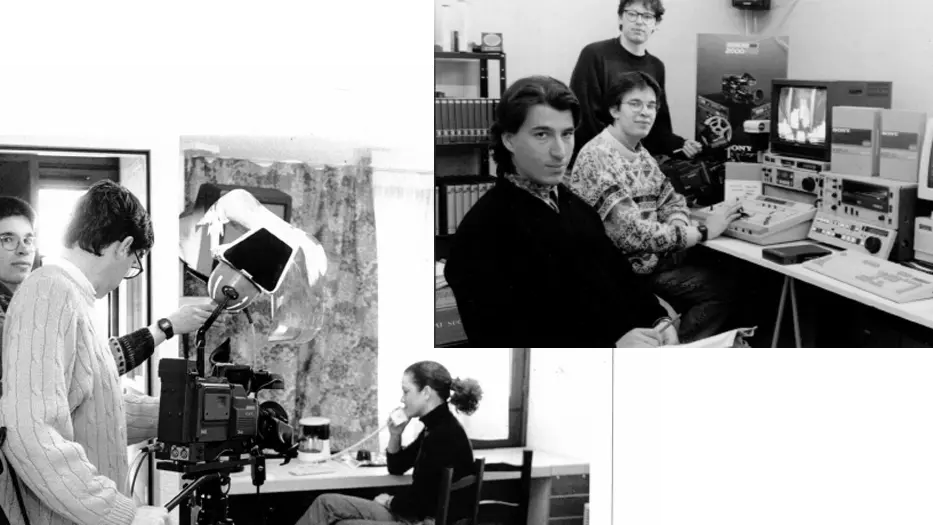
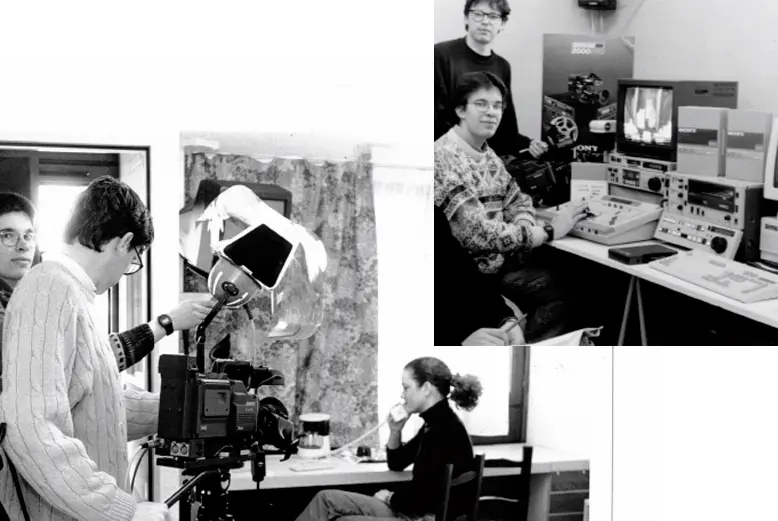
Ajout README.md, mise à jour photo 1998 et corrections multiplex
- Ajout du README.md documentant le projet
- Mise à jour de la photo 1998.webp
- Corrections mineures sur solutions/multiplex.html

diff --git a/README.md b/README.md
@@ -1,0 +1,80 @@
+# Les Ateliers du Stream - Site Web
+
+Site vitrine de **Les Ateliers du Stream**, entreprise de captation multicam et de production audiovisuelle en direct.
+
+## Stack technique
+
+- **HTML5** / **CSS3** / **JavaScript** vanilla (aucun framework)
+- Polices : Butler (serif) et Open Sans (variable)
+- Formats d'images : WebP, SVG, AVIF
+- Header et footer dynamiques via JS (`header.js`, `footer.js`)
+- Lightbox photo intégrée
+- Design responsive (breakpoints : 1024px, 768px, 480px)
+
+## Arborescence
+
+```
+lads-website/
+├── index.html                  # Page d'accueil
+├── solutions.html              # Nos solutions
+├── realisations.html           # Nos réalisations
+├── formations.html             # Nos formations
+├── approche.html               # Notre accompagnement
+├── histoire.html               # Notre histoire
+├── mentions-legales.html       # Mentions légales
+│
+├── solutions/                  # 12 sous-pages solutions
+│   ├── captation-multicam.html
+│   ├── captation-evenementielle.html
+│   ├── captation-multi-regies.html
+│   ├── cameras-tourelle-hf.html
+│   ├── multiplex.html
+│   ├── plateau-web-tv.html
+│   ├── fond-vert.html
+│   ├── retranscription-synthese.html
+│   ├── chapitrage-automatique.html
+│   ├── videoprojection.html
+│   ├── sonorisation.html
+│   └── diffusion-gestion-medias.html
+│
+├── realisations/               # 10 sous-pages réalisations
+│   ├── peer-gynt.html
+│   ├── jeu-de-role.html
+│   ├── ceremonie-docteurs-bordeaux.html
+│   ├── festival-imprime.html
+│   ├── universite-ete-ceca.html
+│   ├── destination-europe.html
+│   ├── salon-agriculture-bordeaux.html
+│   ├── inova-e.html
+│   ├── etourisme-pau.html
+│   └── festival-journalisme-couthures.html
+│
+├── formations/                 # Sous-pages formations
+│   └── vmix.html
+│
+├── header.js / header.css      # Navigation dynamique
+├── footer.js / footer.css      # Footer dynamique + scroll reveal
+│
+├── fonts/                      # Polices (woff2)
+├── images/                     # Logos, icônes, favicon
+├── logos-clients/              # Logos des clients (SVG + WebP)
+└── photo/                      # Photos du site (WebP)
+```
+
+## Navigation
+
+Le header et le footer sont générés dynamiquement par `header.js` et `footer.js` avec détection automatique du préfixe de chemin (`../` pour les sous-dossiers).
+
+## Développement local
+
+Ouvrir directement `index.html` dans un navigateur (`file://`). Tous les liens internes incluent l'extension `.html` pour la compatibilité en navigation locale.
+
+## Déploiement
+
+Site statique hébergé sur **Hostinger**. Aucun build nécessaire : les fichiers sont déployés tels quels.
+
+## Contact
+
+- **Email** : prod@lesateliersdustream.fr
+- **Téléphone** : 06 61 96 88 58
+- **Bureaux** : Marmande (47) | Mérignac (33) | Issy-les-Moulineaux (92)
